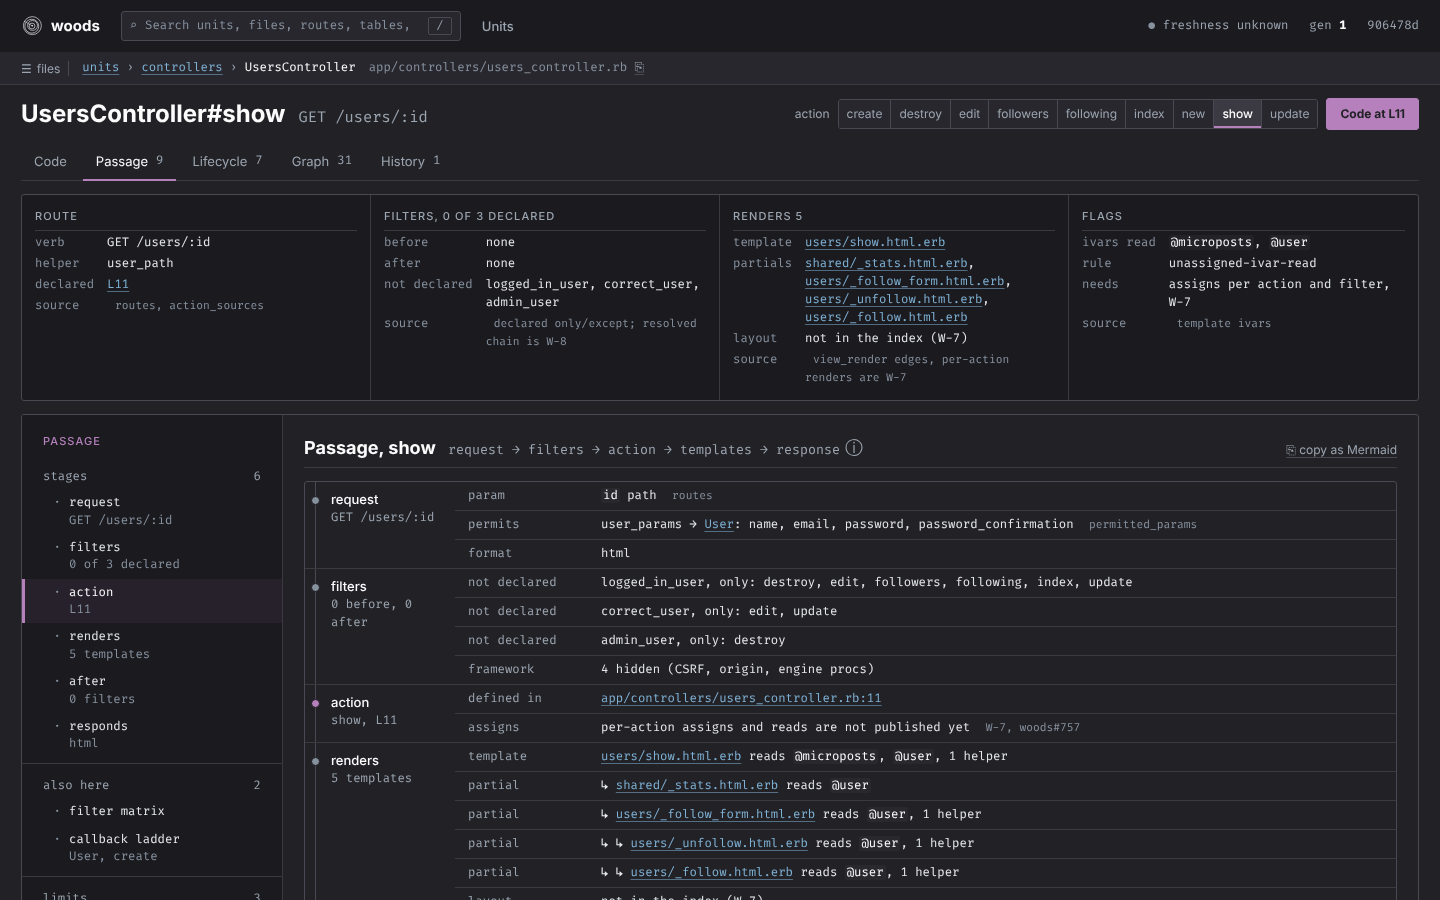
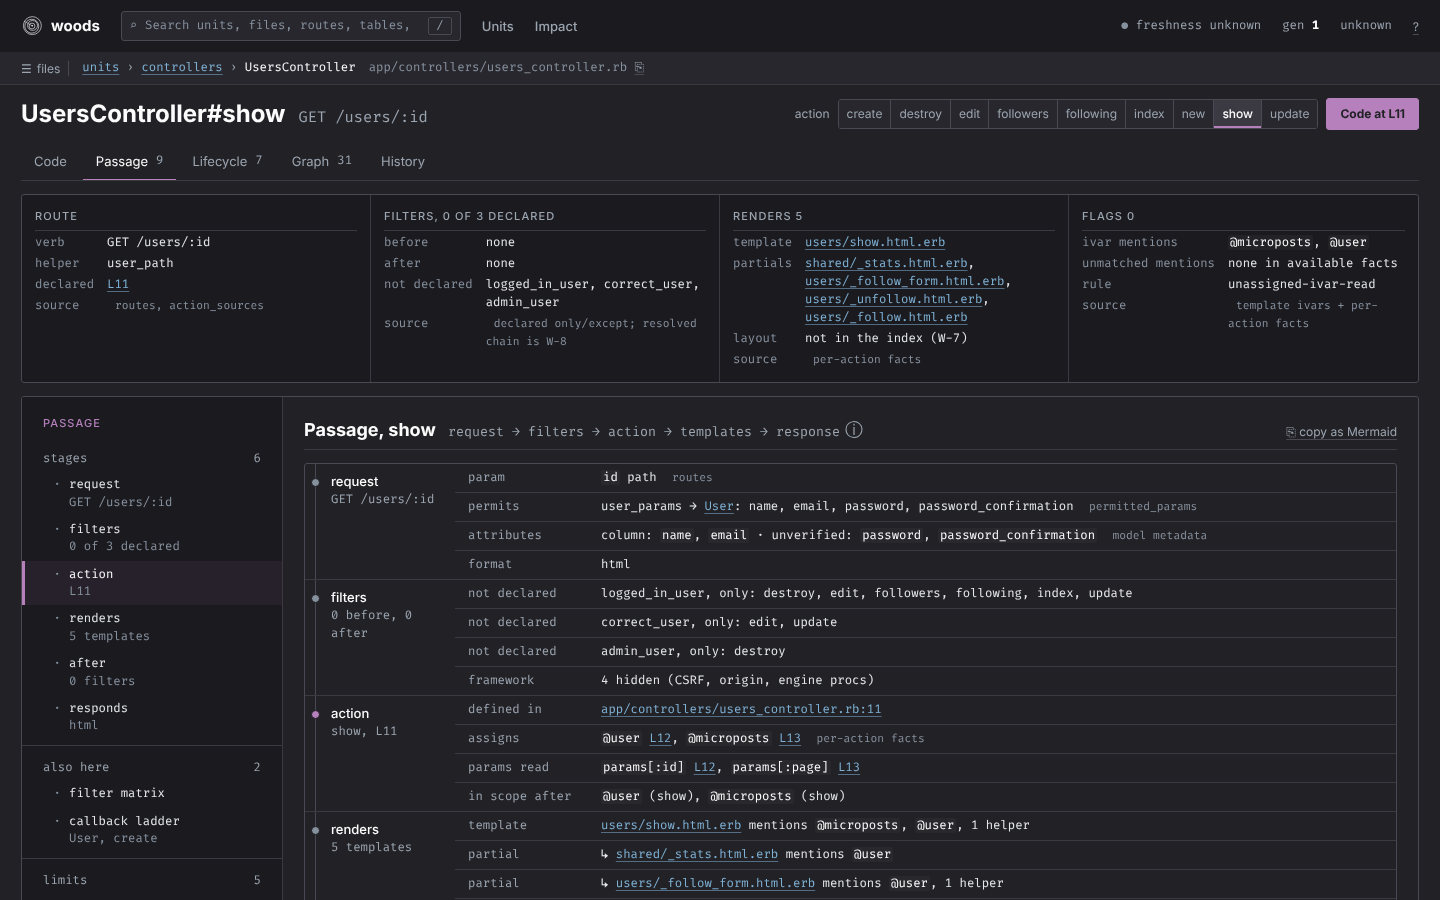
Match permitted keys to published model facts; name the B-18 limits
The Passage now sets each permitted key against the model its require key
names: columns, association names, collection _ids, Active Storage
attachments, rich-text fields and writers the class body defines
(WoodsMap::PermittedAttributes). Matches show with the fact that proves
them; a key none matches stays unverified, never flagged, because the
index does not publish has_secure_password, attribute-API, nested-attribute
or module writers (woods#797). Partial rows show the locals an action
passes (W-7), and the partial-local flag is named as a limit: the index
publishes no locals a partial reads or a template passes (woods#798).

Advances #3 (B-18); the W-8 filter matrix is separate.

diff --git a/lib/woods_map/permitted_attributes.rb b/lib/woods_map/permitted_attributes.rb
@@ -1,0 +1,102 @@
+# frozen_string_literal: true
+
+module WoodsMap
+  # The keys one params method permits, set against what the published model
+  # unit names (B-18): its columns, associations, attachments, rich-text fields
+  # and the writers its class body defines. A match names the fact that proves
+  # it. A key that matches none is unverified, never flagged: the index does
+  # not publish every writer a model accepts (+has_secure_password+, the
+  # attribute API, nested attributes, module writers), so absence proves
+  # nothing until it does (woods#797).
+  class PermittedAttributes
+    # One permitted key and the model fact that matches it, nil when none does.
+    Key = Struct.new(:name, :via, keyword_init: true) do
+      # @return [Boolean]
+      def matched?
+        !via.nil?
+      end
+    end
+
+    # The Woods issue that would let an unmatched key become a flag.
+    WRITERS_ITEM = 'woods#797'
+    # Associations whose collection writer is +<singular>_ids=+.
+    COLLECTIONS = %w[has_many has_and_belongs_to_many].freeze
+
+    # @param repository [WoodsMap::Repository]
+    # @param entry [Hash] +method+, +model+ (the require key) and +permitted+ keys, as Passage#permitted gives them
+    def initialize(repository, entry)
+      @repository = repository
+      @entry = entry
+    end
+
+    # @return [String] the params method, e.g. +user_params+
+    def method_name
+      @entry['method'].to_s
+    end
+
+    # @return [String] the model the require key names, e.g. +User+ for +user+
+    def model_name
+      @entry['model'].to_s.camelize
+    end
+
+    # @return [Hash, nil] the model unit, nil when the index holds no model by that name
+    def model
+      return @model if defined?(@model)
+
+      @model = @repository.unit(model_name, type: 'model')
+    end
+
+    # @return [Array<Key>] every permitted key with its match, in declared order
+    def keys
+      @keys ||= Array(@entry['permitted']).map(&:to_s).map { |key| Key.new(name: key, via: model && match(key)) }
+    end
+
+    # @return [Array<Key>] the keys no published model fact matches
+    def unverified
+      keys.reject(&:matched?)
+    end
+
+    # @return [Hash{String => Array<String>}] matched key names grouped by the fact that matches them
+    def matched_by_fact
+      keys.select(&:matched?).group_by(&:via).transform_values { |list| list.map(&:name) }
+    end
+
+    private
+
+    def metadata
+      model['metadata'] || {}
+    end
+
+    # The first fact that names the key wins, in this order.
+    def match(key)
+      facts_by_name[key]
+    end
+
+    def facts_by_name
+      @facts_by_name ||= begin
+        named = [['column', Array(metadata['column_names']).map(&:to_s)],
+                 ['association', associations.map { |a| a['name'].to_s }],
+                 ['association ids', collection_ids], ['attachment', attachments],
+                 ['rich text', Array(metadata['action_text_fields']).map(&:to_s)],
+                 ['writer', writers]]
+        named.reverse.each_with_object({}) { |(via, names), map| names.each { |name| map[name] = via } }
+      end
+    end
+
+    def writers
+      Array(metadata['instance_methods']).map(&:to_s).select { |m| m.end_with?('=') }.map { |m| m.delete_suffix('=') }
+    end
+
+    def associations
+      Array(metadata['associations']).grep(Hash)
+    end
+
+    def collection_ids
+      associations.select { |a| COLLECTIONS.include?(a['type'].to_s) }.map { |a| "#{a['name'].to_s.singularize}_ids" }
+    end
+
+    def attachments
+      Array(metadata['active_storage_attachments']).map { |a| (a.is_a?(Hash) ? a['name'] : a).to_s }
+    end
+  end
+end

diff --git a/spec/woods_map/permitted_attributes_spec.rb b/spec/woods_map/permitted_attributes_spec.rb
@@ -1,0 +1,53 @@
+# frozen_string_literal: true
+
+require_relative '../support/action_facts_fixture'
+
+RSpec.describe WoodsMap::PermittedAttributes do
+  include ActionFactsFixture
+
+  def fixture_attributes(model, keys)
+    WoodsMap::Repository.open(FIXTURE_INDEX) do |repository|
+      entry = { 'method' => "#{model}_params", 'model' => model, 'permitted' => keys }
+      described_class.new(repository, entry).tap(&:keys)
+    end
+  end
+
+  def synthetic_model(metadata)
+    { 'identifier' => 'Widget', 'type' => 'model', 'file_path' => 'app/models/widget.rb', 'metadata' => metadata,
+      'dependencies' => [] }
+  end
+
+  it 'matches permitted keys to published columns and attachments' do
+    attributes = fixture_attributes('micropost', %w[content image])
+    expect(attributes.model['identifier']).to eq('Micropost')
+    expect(attributes.matched_by_fact).to eq('column' => ['content'], 'attachment' => ['image'])
+    expect(attributes.unverified).to eq([])
+  end
+
+  it 'leaves a key no published fact matches unverified, never claiming the model lacks it' do
+    attributes = fixture_attributes('user', %w[name email password password_confirmation])
+    expect(attributes.matched_by_fact).to eq('column' => %w[name email])
+    expect(attributes.unverified.map(&:name)).to eq(%w[password password_confirmation])
+  end
+
+  it 'matches associations, collection ids, rich text and class-body writers' do
+    model = synthetic_model(
+      'column_names' => ['id'], 'instance_methods' => ['nickname='], 'action_text_fields' => ['notes'],
+      'associations' => [{ 'name' => 'tags', 'type' => 'has_many' }, { 'name' => 'owner', 'type' => 'belongs_to' }]
+    )
+    repository = action_repository([model])
+    keys = %w[tag_ids owner notes nickname nickname_attributes]
+    entry = { 'method' => 'widget_params', 'model' => 'widget', 'permitted' => keys }
+    attributes = described_class.new(repository, entry)
+    expect(attributes.keys.map { |key| [key.name, key.via] })
+      .to eq([['tag_ids', 'association ids'], %w[owner association], ['notes', 'rich text'], %w[nickname writer],
+              ['nickname_attributes', nil]])
+  end
+
+  it 'checks nothing when the index holds no model the require key names' do
+    entry = { 'method' => 'x_params', 'model' => 'profile', 'permitted' => ['bio'] }
+    attributes = described_class.new(action_repository([]), entry)
+    expect([attributes.model_name, attributes.model]).to eq(['Profile', nil])
+    expect(attributes.keys.map(&:via)).to eq([nil])
+  end
+end

diff --git a/lib/woods_map/passage_templates.rb b/lib/woods_map/passage_templates.rb
@@ -9,7 +9,8 @@ module WoodsMap
   # with no unit, so the page can say so.
   class PassageTemplates
     # A template of the action, or a partial beneath it.
-    Template = Struct.new(:identifier, :unit, :role, :depth, keyword_init: true) do
+    # +locals+ are the keys the action passes a partial it renders itself (W-7); nil when not published.
+    Template = Struct.new(:identifier, :unit, :role, :depth, :locals, keyword_init: true) do
       # @return [Array<String>] the lexical instance-variable mentions published for the template
       def instance_variables
         Array(unit&.dig('metadata', 'instance_variables')).map(&:to_s)
@@ -74,7 +75,9 @@ module WoodsMap
     # for a mailer, its own template list answers when the index holds none.
     def from_facts
       named = @facts.template_paths.flat_map { |path| at(path) }.map { |id| template(id, 'template', 0) }
-      named + @facts.partial_paths.flat_map { |path| at(path) }.map { |id| template(id, 'partial', 1) }
+      named + @facts.partial_paths.flat_map do |path|
+        at(path).map { |id| template(id, 'partial', 1, locals: @facts.partial_locals(path)) }
+      end
     end
 
     def at(path)
@@ -98,9 +101,9 @@ module WoodsMap
       edges.map { |edge| edge['source'].to_s }.sort
     end
 
-    def template(identifier, role, depth)
+    def template(identifier, role, depth, locals: nil)
       Template.new(identifier: identifier, unit: @repository.unit(identifier, type: 'view_template'), role: role,
-                   depth: depth)
+                   depth: depth, locals: locals)
     end
 
     # The partials a template renders, from its own dependency list, to PARTIAL_DEPTH.

diff --git a/spec/requests/units_spec.rb b/spec/requests/units_spec.rb
@@ -133,6 +133,20 @@ RSpec.describe 'Unit pages', type: :request do
     expect(response.body).to include('Flag coverage is incomplete')
   end
 
+  it 'sets permitted keys against the model and leaves unmatched ones unverified, not flagged' do
+    get '/woods/units/controller/UsersController/passage?action_name=create'
+    expect(response.body).to include('column: <span class="iv">name</span>, <span class="iv">email</span>')
+    expect(response.body).to include('unverified: <span class="iv">password</span>, ' \
+                                     '<span class="iv">password_confirmation</span>')
+    expect(response.body).to include('Unverified, not flagged', 'woods#797', 'woods#798')
+    expect(response.body).not_to include('<span class="iv bad">password</span>')
+  end
+
+  it 'names partial locals as a limit where partials are shown' do
+    get '/woods/units/controller/UsersController/passage?action_name=show'
+    expect(response.body).to include('Partial locals are not checked', 'partial locals passed and read')
+  end
+
   it 'sends a type without actions from the passage route to its Code tab' do
     get '/woods/units/model/User/passage'
     expect(response).to redirect_to('/woods/units/model/User')

diff --git a/lib/woods_map/passage.rb b/lib/woods_map/passage.rb
@@ -35,6 +35,8 @@ module WoodsMap
     FRAMEWORK = /\A(#<|verify_authenticity_token\z|verify_same_origin_request\z)/
     # The model event an action name implies, for the callback ladder.
     EVENT_BY_ACTION = { 'create' => 'create', 'update' => 'update', 'destroy' => 'destroy' }.freeze
+    # The Woods issue that would publish partial locals passed and read (B-18's partial-local flag).
+    LOCALS_ITEM = 'woods#798'
 
     # @param repository [WoodsMap::Repository]
     # @param unit [Hash] a controller or mailer unit
@@ -111,6 +113,11 @@ module WoodsMap
         { 'method' => method.to_s, 'model' => facts['model'].to_s,
           'permitted' => Array(facts['permitted']).map(&:to_s) }
       end
+    end
+
+    # @return [Array<PermittedAttributes>] each permitted-params method set against its model's published facts
+    def permitted_attributes
+      @permitted_attributes ||= permitted.map { |entry| PermittedAttributes.new(@repository, entry) }
     end
 
     # @return [Array<PassageTemplates::Template>] the action's templates (depth 0) and their partial chain

diff --git a/spec/woods_map/action_facts_compatibility_spec.rb b/spec/woods_map/action_facts_compatibility_spec.rb
@@ -120,4 +120,12 @@ RSpec.describe WoodsMap::ActionFacts do
     expect(passage.flags).to be_nil
     expect(ivar_result(action_review(repository, 'WidgetsController'))).to eq('needs W-7')
   end
+
+  it 'carries the locals an action passes a partial it renders itself, and nil where none are published' do
+    renders = [{ 'partial' => 'widgets/_card', 'locals' => %w[widget size] }, { 'partial' => 'widgets/_bare' }]
+    owner = action_owner(facts: { 'show' => action_entry(renders: renders) })
+    passage = WoodsMap::Passage.new(action_repository([owner]), owner, action: 'show')
+    expect(passage.templates.map { |t| [t.identifier, t.locals] })
+      .to eq([['widgets/_card', %w[widget size]], ['widgets/_bare', nil]])
+  end
 end

diff --git a/lib/woods_map/action_facts.rb b/lib/woods_map/action_facts.rb
@@ -79,6 +79,13 @@ module WoodsMap
       renders.filter_map { |fact| fact['partial'] }.uniq
     end
 
+    # @param path [String] a partial path the action renders, e.g. +users/_form+
+    # @return [Array<String>, nil] the locals keys the action passes it; nil when no render of it names locals
+    def partial_locals(path)
+      lists = renders.select { |fact| fact['partial'] == path && fact['locals'].is_a?(Array) }.pluck('locals')
+      lists.empty? ? nil : lists.flatten.map(&:to_s).uniq
+    end
+
     # @return [Array<Hash>] the renders that name no template: formats, heads, objects
     def other_renders
       renders.reject { |fact| fact['template'] || fact['partial'] }

diff --git a/lib/woods_map.rb b/lib/woods_map.rb
@@ -24,6 +24,7 @@ require 'woods_map/history_view'
 require 'woods_map/action_facts'
 require 'woods_map/passage_templates'
 require 'woods_map/passage'
+require 'woods_map/permitted_attributes'
 require 'woods_map/blast_radius'
 require 'woods_map/impact_review'
 require 'woods_map/impact_range'

diff --git a/CLAUDE.md b/CLAUDE.md
@@ -44,6 +44,7 @@ lib/woods_map/unit_facts.rb       # type-specific tiles from published unit meta
 lib/woods_map/{unit_page,code_view,composite_source,highlighter,marginalia,references,outline}.rb  # the unit page and Code tab
 lib/woods_map/{schema_view,lifecycle,neighbourhood,history_view}.rb  # the Schema, Lifecycle, Graph and History tabs
 lib/woods_map/passage.rb         # the Passage tab: declared filters, templates by the view_render edge, the ladder's model and event
+lib/woods_map/permitted_attributes.rb  # permitted keys against the model's published columns, associations, attachments, rich text, writers
 lib/woods_map/{neighbourhood_query,neighbourhood_response,graph_elements}.rb  # bounded JSON projection of existing traversal
 lib/woods_map/{blast_radius,impact_review}.rb  # the impact page's pre-change mode: reverse-edge propagation with paths; rules, tests, gaps, unknowns
 lib/woods_map/{search_results,palette,file_tree}.rb  # search modes, the palette's groups, the per-generation file tree
@@ -72,7 +73,7 @@ docs/design/                     # design study, decisions, boards, foundations,
 - `Neighbourhood` receives the selected unit type from its route and traverses typed identities, including variant edges. Type filters apply to the endpoint first reached by each breadth-first edge visit; missing type metadata on older graphs falls back to the primary node. Graph-analysis notes retain their published identifier-level scope.
 - `Lifecycle` keeps only callbacks whose method the unit's source or an inlined concern defines; framework callbacks and procs are counted as a limit, not drawn as steps.
 - `Outline`, `SchemaView`, `Neighbourhood` and `HistoryView` read the generation at construction, so a view may use them after the repository block closes.
-- `Passage` shows filter scopes as declared (`only`/`except` lists) and never resolves the chain (W-8). Assigns, params and renders come only from Woods' `metadata.action_facts` (W-7, `WoodsMap::ActionFacts`); without them it ties templates to actions through the `view_render` edge or a mailer's template list and raises no flag. Admitted actions missing facts, absent template ivar metadata and partial chains beyond the traversal limit stay incomplete. Template ivars are lexical mentions: unmatched mentions are advisory, with no claim about a runtime value. Shared partial focus follows reverse render edges to find its owners. A fact the index lacks is named as a limit, not derived; the map never parses host source.
+- `Passage` shows filter scopes as declared (`only`/`except` lists) and never resolves the chain (W-8). Assigns, params and renders come only from Woods' `metadata.action_facts` (W-7, `WoodsMap::ActionFacts`); without them it ties templates to actions through the `view_render` edge or a mailer's template list and raises no flag. Admitted actions missing facts, absent template ivar metadata and partial chains beyond the traversal limit stay incomplete. Template ivars are lexical mentions: unmatched mentions are advisory, with no claim about a runtime value. `PermittedAttributes` matches permitted keys only against published model facts (columns, associations, `_ids`, attachments, rich text, class-body writers); an unmatched key is unverified, never flagged, until Woods publishes every writer (woods#797). Partial locals read are not published (woods#798), so that flag is a named limit. Shared partial focus follows reverse render edges to find its owners. A fact the index lacks is named as a limit, not derived; the map never parses host source.
 - The impact page computes nothing a range needs: `BlastRadius` propagates over `reverse_via` of one generation and `ImpactReview` runs only the rules that generation can answer, listing the rest with what they need (W-7, W-8, a range). The range page delegates to `Woods::Impact::Report.compare` (W-12, decision D-1), optionally loaded from `woods/impact/report`. It renders the string-keyed schema version 1 evidence without deriving another diff or traversal. Retain endpoint/generation context, coverage and unknowns; historical identities have no current-source links. Missing capability and unreadable evidence are explicit states. Manifest checksums cover manifests only; source sizes are not changed-line counts. Never render Markdown or JSON reports here.
 - Diagrams are drawn in the browser by Pele (D-21) from the Mermaid text the page carries; Ruby builds the text (`#mermaid` on the view objects, never inline in a view) and the panel keeps it as the fallback. Pass `mermaid:` and `label:` to the diagram partial, and `refusal:` when the type's budget (R-4) is exceeded: `Neighbourhood::NODE_BUDGET`, `SchemaView::TABLE_BUDGET`, `Lifecycle::SEQUENCE_BUDGET`. A runtime refusal by Pele shows in the panel's status line, never only in the console. `spec/diagrams/pele_render_spec.rb` draws every generated text with the vendored build in Node: a text Pele refuses fails there, not on a page.
 - The code view is one scroll region (`.cvwrap`, woods-map#29): the source column grows to its longest line and the gutters are sticky. Do not reintroduce `overflow-x:auto` on `.src`.

diff --git a/docs/design/notes/passage-mismatch-limits.md b/docs/design/notes/passage-mismatch-limits.md
@@ -1,0 +1,35 @@
+# Passage mismatch flags beyond the unassigned ivar
+
+Scope: B-18 (the permitted-param and partial-local flags); advances #3. The
+unassigned-ivar flag and the W-8 filter matrix are separate work.
+
+B8-Passage designs only the unassigned-ivar flag. The other two B-18 flags
+need facts the index does not publish yet, so the passage shows what it can
+prove and names the rest as a limit. It raises neither flag.
+
+## Permitted param with no matching attribute
+
+`WoodsMap::PermittedAttributes` compares each permitted key with the model the
+require key names (`user` → `User`). It checks these published model facts, in
+this order:
+
+1. `column_names`
+2. association names
+3. `<singular>_ids` for `has_many` and `has_and_belongs_to_many`
+4. `active_storage_attachments`
+5. `action_text_fields`
+6. `<key>=` in `instance_methods`
+
+`instance_methods` covers writers defined in the class body only.
+
+- The request stage shows an `attributes` row under each `permits` row, for example `column: name, email · unverified: password, password_confirmation`.
+- When the index holds no model for the require key, the keys are not checked and the row says so.
+- An unmatched key is **unverified**, not flagged. `has_secure_password`, the attribute API, nested attributes and module writers are not published, so an absent match proves nothing. On the testbed, `password` is one such key.
+- A ⓘ note in the responds stage names the unverified keys and links [woods#797](https://github.com/lost-in-the/woods/issues/797). That issue asks Woods to publish every writer a model accepts and the model each params method resolves to. Once it lands, the note becomes a ⚑ flag.
+
+## Partial local never read
+
+- W-7 publishes the locals an action passes to a partial it renders itself. The partial row shows them as `locals: …`, as the board does.
+- The index publishes no locals a template passes to its partials, and no locals a partial reads. When partials are shown, a ⓘ note says the check is not made and links [woods#798](https://github.com/lost-in-the/woods/issues/798).
+
+Both items also appear in the rail's *limits* group. Neither flag is added to the impact page's rule registry: B8-Impact-Risks does not list them.

diff --git a/docs/design/coverage.md b/docs/design/coverage.md
@@ -34,7 +34,7 @@ opens the file tree.
 | Graph tab | Neighbourhood, filters, depth, hubs | FR-5, A-1, A-2 | [B6-Graph](boards/B6-Graph.html) | final |
 | History tab | Commit strip, commits with description rows, co-change, people | FR-7, B-6, C-5 | [B6-History](boards/B6-History.html) | final; generation picker not drawn |
 | Controller: Routes tab | Routes, helpers, action sources | FR-3 | — | **none** |
-| Controller: Passage tab | Stages, filter matrix, callback ladder, mismatch flags, export | B-16 to B-20 | [B8-Passage](boards/B8-Passage.html) | final; the engine shows declared filter scopes (W-8 pending) and compares lexical template ivar mentions with W-7 assignments as advisory notes; missing action/template facts and truncated partial chains remain incomplete |
+| Controller: Passage tab | Stages, filter matrix, callback ladder, mismatch flags, export | B-16 to B-20 | [B8-Passage](boards/B8-Passage.html) | final; the engine shows declared filter scopes (W-8 pending) and compares lexical template ivar mentions with W-7 assignments as advisory notes; missing action/template facts and truncated partial chains remain incomplete; permitted keys are matched to published model facts and unmatched ones stay unverified (woods#797), partial locals are a named limit (woods#798), see [note](notes/passage-mismatch-limits.md) |
 | Mailer: Passage and Templates | Mailer action passage, delivery, templates | B-17 | — | **none** (same component as the controller passage) |
 | Unit pages: job, mailer, view, concern, serializer, table | Type-specific facts tiles | B-4 | [Published facts note](notes/published-type-facts.md) | bounded published-metadata tiles |
 | `/woods/files/*path` | Indexed file ownership: primary and contributor paths, typed owners and unresolved membership | B-5 | [M1 navigation note](notes/m1-indexed-navigation.md) | shared components; mounted acceptance separate |

diff --git a/docs/design/plan.md b/docs/design/plan.md
@@ -83,6 +83,8 @@ Run this before a milestone issue is opened and again before it closes.
 | W-11 generation pin | [woods#761](https://github.com/lost-in-the/woods/issues/761) |
 | W-12 impact report | [woods#762](https://github.com/lost-in-the/woods/issues/762) |
 | W-13 inverted flow index | [woods#763](https://github.com/lost-in-the/woods/issues/763) |
+| Model attribute writers for the permitted-param flag (B-18) | [woods#797](https://github.com/lost-in-the/woods/issues/797), [design note](notes/passage-mismatch-limits.md) |
+| Partial locals passed and read for the partial-local flag (B-18) | [woods#798](https://github.com/lost-in-the/woods/issues/798), [design note](notes/passage-mismatch-limits.md) |
 | W-14 best-effort flows | [woods#764](https://github.com/lost-in-the/woods/issues/764) |
 | Engine scaffold (the M1 skeleton: gem, Engine, Repository, authentication, states, token sheet served) | [woods-map#11](https://github.com/lost-in-the/woods-map/pull/11) |
 | Bounded M1 units index and indexed file ownership (FR-3, B-5); other M1 follow-ups remain separate | [woods-map#34](https://github.com/lost-in-the/woods-map/issues/34), [design note](notes/m1-indexed-navigation.md) |
